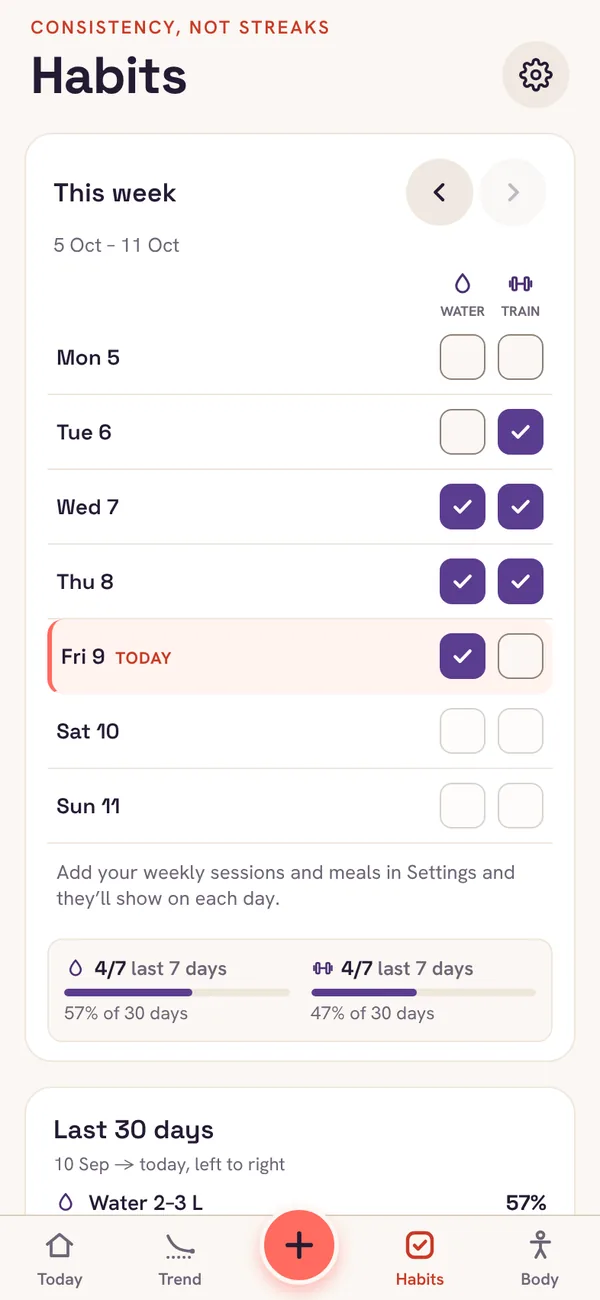
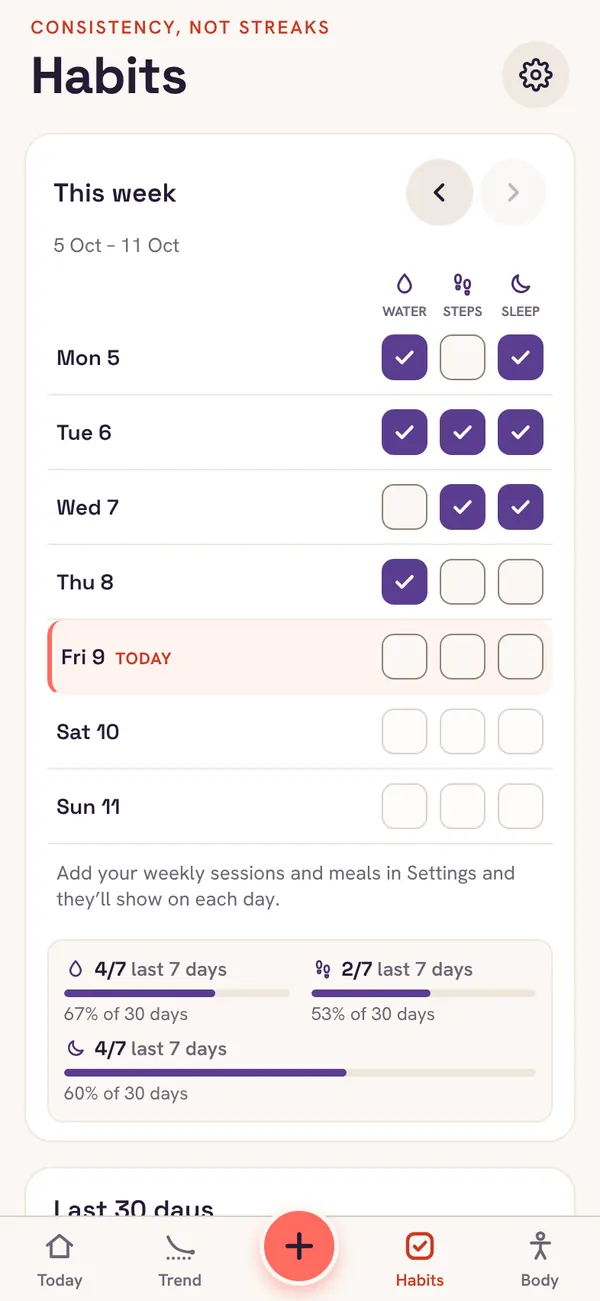
Website: bring it up to date with the new brand and designs
- The intro's three screens are fresh captures of the current app.
- Inside Tidemark: the widgets and Watch cards become four detailed designs
  (Home Screen widgets, Lock Screen, the Watch app, the watch face), still
  marked Coming soon, with a note that the finished versions may differ.
  The old drawn widget and watch art and its CSS are gone.
- The share image is redrawn with the dial logo, the headline and the app,
  and its alt text and the Settings footer drop the old "read the trend, not
  the waves" line for "the scale jumps, your trend doesn't".

Claude-Session: https://claude.ai/code/session_01NJzQ8Sbwud31aT5mXSmaWd

diff --git a/site/index.html b/site/index.html
@@ -257,8 +257,7 @@
   .deck-screen img { display: block; width: 100%; height: 100%; object-fit: cover; pointer-events: none; }
   .deck-art { display: grid; place-items: center; width: 100%; height: 100%; padding: 24px; }
   .deck-art .rem { transform: scale(1.12); }
-  .deck-art .wall { background: none; padding: 0; height: auto; transform: scale(1.18); }
-  .deck-art .watch { transform: scale(1.3); }
+  .deck-watch { display: block; width: 84%; height: auto; filter: drop-shadow(0 24px 30px rgba(0,0,0,.5)); pointer-events: none; }
   .deck-card figcaption { display: none; }
   .deck-meta { display: flex; align-items: center; gap: 16px; width: min(100%, 560px); }
   .deck-cap { flex: 1; min-width: 0; text-align: center; min-height: 128px; }
@@ -305,34 +304,6 @@
   .sw::after { content: ''; position: absolute; top: 3px; left: 3px; width: 17px; height: 17px; border-radius: 50%; background: #F2EEF6; }
   .sw.on { background: var(--mint); } .sw.on::after { left: 18px; }
 
-  /* Widgets on a wallpaper */
-  .wall { display: flex; gap: 14px; align-items: center; justify-content: center; width: 100%; height: 100%; border-radius: 22px;
-    background: linear-gradient(160deg, #FF8D7D 0%, #FFA24B 28%, #4B2E73 72%, #2A1E45 100%); padding: 16px; }
-  .wg-s { width: 138px; height: 138px; border-radius: 26px; background: #FBF7F3; color: #241B33; padding: 14px; display: flex; flex-direction: column;
-    box-shadow: 0 14px 30px -14px rgba(10,6,20,.6); }
-  .wg-s .lbl { font: 600 10.5px/1 'Hanken Grotesk', sans-serif; letter-spacing: .06em; text-transform: uppercase; color: #8A5A00; }
-  .wg-s .num { font: 700 30px/1 'Space Grotesk', sans-serif; letter-spacing: -0.02em; margin-top: 8px; }
-  .wg-s .num small { font: 500 13px 'Hanken Grotesk', sans-serif; color: #6B6178; margin-left: 2px; }
-  .wg-s .chg { font: 600 12.5px 'Hanken Grotesk', sans-serif; color: #1F7A55; margin-top: 4px; }
-  .wg-s svg { margin-top: auto; }
-  .lock { display: flex; flex-direction: column; gap: 10px; }
-  .wg-c { width: 62px; height: 62px; border-radius: 50%; background: rgba(18,14,28,.38); backdrop-filter: blur(6px); display: grid; place-items: center; }
-  .wg-r { width: 112px; border-radius: 14px; background: rgba(18,14,28,.38); backdrop-filter: blur(6px); padding: 9px 11px; color: #FBF7F3; }
-  .wg-r b { display: block; font: 700 17px/1.1 'Space Grotesk', sans-serif; }
-  .wg-r span { font-size: 11.5px; color: rgba(251,247,243,.82); }
-
-  /* Apple Watch */
-  .watch { position: relative; width: 150px; height: 182px; border-radius: 46px; background: #0B0910;
-    box-shadow: 0 0 0 7px #2B2533, 0 0 0 8px rgba(255,255,255,.12), 0 20px 40px -16px rgba(0,0,0,.7); padding: 18px 14px; color: #FBF7F3;
-    display: flex; flex-direction: column; }
-  .watch::before, .watch::after { content: ''; position: absolute; right: -14px; background: #3A3343; border-radius: 3px; }
-  .watch::before { top: 42px; width: 7px; height: 30px; }   /* the crown */
-  .watch::after { top: 92px; width: 5px; height: 40px; }    /* the side button */
-  .watch .lbl { font: 600 10.5px/1 'Hanken Grotesk', sans-serif; letter-spacing: .06em; text-transform: uppercase; color: var(--amber); }
-  .watch .num { font: 700 34px/1 'Space Grotesk', sans-serif; letter-spacing: -0.02em; margin-top: 8px; }
-  .watch .num small { font: 500 13px 'Hanken Grotesk', sans-serif; color: rgba(251,247,243,.7); }
-  .watch .chg { font: 600 12.5px 'Hanken Grotesk', sans-serif; color: var(--mint); margin-top: 4px; }
-  .watch .log { margin-top: auto; border-radius: 999px; background: var(--coral); color: #241B33; text-align: center; font: 700 14px/1 'Space Grotesk', sans-serif; padding: 11px 0; }
 
   footer { background: rgba(18,14,28,.6); border-top: 1px solid var(--line); color: var(--on-plum-soft); padding: 40px 0; font-size: 15px; }
   footer .wrap { display: flex; flex-direction: column; align-items: center; gap: 6px; text-align: center; }
@@ -369,9 +340,9 @@
       </div>
 
       <div class="fan" id="fan">
-        <figure class="card card-l"><img src="shots/trend.webp" width="600" height="1301" alt="The Trend screen: trend weight 88.2 kg, losing 0.5 kg a week, a table of changes and a chart of weigh-ins against the plan." decoding="async"></figure>
+        <figure class="card card-l"><img src="shots/trend.webp" width="600" height="1301" alt="The Trend screen: trend weight 88.2 kg, losing 0.5 kg a week, and a note that the last weigh-in dropped 0.8 kg while the trend moved 0.1 kg." decoding="async"></figure>
         <figure class="card card-c"><img src="shots/today.webp" width="600" height="1301" alt="The Today screen: trend weight 88.2 kg, progress from 92 towards 84 kg, on track, and this week’s change." decoding="async"></figure>
-        <figure class="card card-r"><img src="shots/habits.webp" width="600" height="1301" alt="The Habits screen: this week’s ticks for water and training, and how many of the last seven days each was done." decoding="async"></figure>
+        <figure class="card card-r"><img src="shots/habits.webp" width="600" height="1301" alt="The Habits screen: this week’s ticks for water, steps and sleep." decoding="async"></figure>
       </div>
 
       <ul class="points" id="how">
@@ -433,28 +404,20 @@
             <figcaption><span class="tag tag-now">In the app</span><h3>Locked and backed up, by you</h3><p>Lock Tidemark with Face ID, export a backup or a spreadsheet whenever you like, or delete everything in one go.</p></figcaption>
           </figure>
           <figure class="deck-card tone-warm">
-            <div class="deck-art"><div class="wall" role="img" aria-label="A Home Screen widget showing a trend weight of 88.2 kg, down 0.5 kg this week, beside Lock Screen widgets with a progress dial and 88.2 kg on track.">
-              <div class="wg-s">
-                <span class="lbl">Trend</span>
-                <span class="num">88.2<small>kg</small></span>
-                <span class="chg">−0.5 kg this week</span>
-                <svg width="110" height="30" viewBox="0 0 110 30" aria-hidden="true"><path d="M2 6 C 20 8, 30 12, 44 13 S 70 19, 84 21 S 100 24, 108 25" fill="none" stroke="#FF6B5E" stroke-width="3" stroke-linecap="round"/><circle cx="108" cy="25" r="3.5" fill="#FF6B5E"/></svg>
-              </div>
-              <div class="lock">
-                <div class="wg-c"><svg width="44" height="44" viewBox="0 0 1024 1024" aria-hidden="true"><path d="M220 524 A292 292 0 0 1 804 524" fill="none" stroke="rgba(251,247,243,.45)" stroke-width="110" stroke-linecap="round"/><path d="M804 524 A292 292 0 0 1 220 524" fill="none" stroke="#FFA24B" stroke-width="110" stroke-linecap="round"/><path d="M489 501 L663 373 L535 547 Z" fill="#FBF7F3" stroke="#FBF7F3" stroke-width="20" stroke-linejoin="round"/><circle cx="512" cy="524" r="70" fill="#FF6B5E"/></svg></div>
-                <div class="wg-r"><b>88.2 kg</b><span>On track</span></div>
-              </div>
-            </div></div>
-            <figcaption><span class="tag tag-soon">Coming soon</span><h3>Widgets</h3><p>Your trend on your Home Screen and Lock Screen: today’s trend weight, this week’s change and how far you are from your goal.</p></figcaption>
+            <div class="deck-screen"><img src="shots/deck/widgets-home.webp" width="480" height="780" alt="A Home Screen with a medium Tidemark widget showing the trend chart, a small progress dial widget at 4.2 kg to go, and a habits widget at 2 of 3." loading="lazy" decoding="async" draggable="false"></div>
+            <figcaption><span class="tag tag-soon">Coming soon</span><h3>Widgets for your Home Screen</h3><p>Your trend and its chart, how far you are from your goal, and today’s habits, without opening the app.</p></figcaption>
           </figure>
           <figure class="deck-card tone-deep">
-            <div class="deck-art"><div class="watch" role="img" aria-label="Apple Watch showing a trend weight of 88.2 kg, down 0.5 kg a week, with a Log weight button.">
-              <span class="lbl">Trend</span>
-              <span class="num">88.2<small> kg</small></span>
-              <span class="chg">−0.5 kg a week</span>
-              <span class="log">Log weight</span>
-            </div></div>
-            <figcaption><span class="tag tag-soon">Coming soon</span><h3>Apple Watch</h3><p>Log a weigh-in from your wrist and glance at your trend, with a complication for your watch face.</p></figcaption>
+            <div class="deck-screen"><img src="shots/deck/widgets-lock.webp" width="480" height="780" alt="A Lock Screen with Tidemark’s trend above the clock, a progress dial, the weekly rate, a trend card and a weigh-in reminder." loading="lazy" decoding="async" draggable="false"></div>
+            <figcaption><span class="tag tag-soon">Coming soon</span><h3>And your Lock Screen</h3><p>The trend above the clock, a progress dial and your weekly rate, in the wallpaper’s own tint.</p></figcaption>
+          </figure>
+          <figure class="deck-card tone-plum">
+            <div class="deck-art"><img class="deck-watch" src="shots/deck/watch-app.webp" width="420" height="433" alt="Apple Watch showing a trend weight of 88.2 kg, down 0.5 kg a week, a small chart and a Log weight button." loading="lazy" decoding="async" draggable="false"></div>
+            <figcaption><span class="tag tag-soon">Coming soon</span><h3>Apple Watch</h3><p>Glance at your trend and log a weigh-in from your wrist, turning the Digital Crown to set the weight.</p></figcaption>
+          </figure>
+          <figure class="deck-card tone-deep">
+            <div class="deck-art"><img class="deck-watch" src="shots/deck/watch-face.webp" width="420" height="433" alt="An Apple Watch face with Tidemark complications: a progress dial, the trend at 88.2 kg, kilos lost, habit consistency and the next reminder." loading="lazy" decoding="async" draggable="false"></div>
+            <figcaption><span class="tag tag-soon">Coming soon</span><h3>On your watch face</h3><p>Complications for your trend, your progress, your habits and your next reminder.</p></figcaption>
           </figure>
         </div>
         <div class="deck-meta">
@@ -463,12 +426,12 @@
           <button type="button" class="deck-btn" data-go="next" aria-label="Next card"><svg width="16" height="16" viewBox="0 0 16 16" fill="none" aria-hidden="true"><path d="m6 3 5 5-5 5" stroke="currentColor" stroke-width="1.6" stroke-linecap="round" stroke-linejoin="round"/></svg></button>
         </div>
         <div class="deck-foot">
-          <span class="deck-count" aria-hidden="true"><b>01</b> / 11</span>
+          <span class="deck-count" aria-hidden="true"><b>01</b> / 13</span>
           <button type="button" class="deck-play" aria-pressed="false">Pause</button>
         </div>
         <p class="deck-sr" aria-live="polite"></p>
       </div>
-      <p class="extras-note"><span class="js-only">Drag the top card away, or use the arrows. </span>Everything marked “In the app” is in the first release. Widgets, Apple Watch and the extra reminder choices aren’t yet; they’re planned for an update. Reminders are set up on your iPhone itself, so nothing is sent to a server.</p>
+      <p class="extras-note"><span class="js-only">Drag the top card away, or use the arrows. </span>Everything marked “In the app” is in the first release. Widgets, Apple Watch and the extra reminder choices aren’t yet; they’re planned for an update, and the pictures of them are designs, so the finished versions may differ. Reminders are set up on your iPhone itself, so nothing is sent to a server.</p>
     </div>
   </section>
 

diff --git a/mobile/src/screens/SettingsScreen.tsx b/mobile/src/screens/SettingsScreen.tsx
@@ -238,7 +238,7 @@ export function SettingsScreen(p: SettingsProps) {
           <Row icon="book" label="Acknowledgements" onPress={() => setPage('credits')} />
           <Row icon="info" label="Version" value={build ? `${version} (${build})` : version} last />
         </Group>
-        <Text style={[s.groupFootOut, { textAlign: 'center', marginTop: 4 }]}>Tidemark · read the trend, not the waves{'\n'}Targets and estimates are guidance, not medical advice.</Text>
+        <Text style={[s.groupFootOut, { textAlign: 'center', marginTop: 4 }]}>Tidemark · the scale jumps, your trend doesn’t{'\n'}Targets and estimates are guidance, not medical advice.</Text>
       </ScrollView>
     </View>
     {page !== 'root' && <Pushed key={page} onBack={back} leaving={leaving} onGone={gone}>{subPage()}</Pushed>}

diff --git a/mobile/scripts/pages-site.js b/mobile/scripts/pages-site.js
@@ -32,7 +32,7 @@ const meta = ({ title, description, page, noindex }) => [
   siteUrl ? `<meta property="og:url" content="${siteUrl}/${page}">` : '',
   siteUrl ? `<meta property="og:image" content="${siteUrl}/social.png">` : '',
   '<meta property="og:image:width" content="1200">', '<meta property="og:image:height" content="630">',
-  '<meta property="og:image:alt" content="Tidemark: a private weight tracker. Read the trend, not the waves.">',
+  '<meta property="og:image:alt" content="Tidemark, a private weight tracker for iPhone. The scale jumps; your trend doesn’t.">',
   '<meta name="twitter:card" content="summary_large_image">',
 ].filter(Boolean).join('');
 const addHead = (file, tags, title) => {
